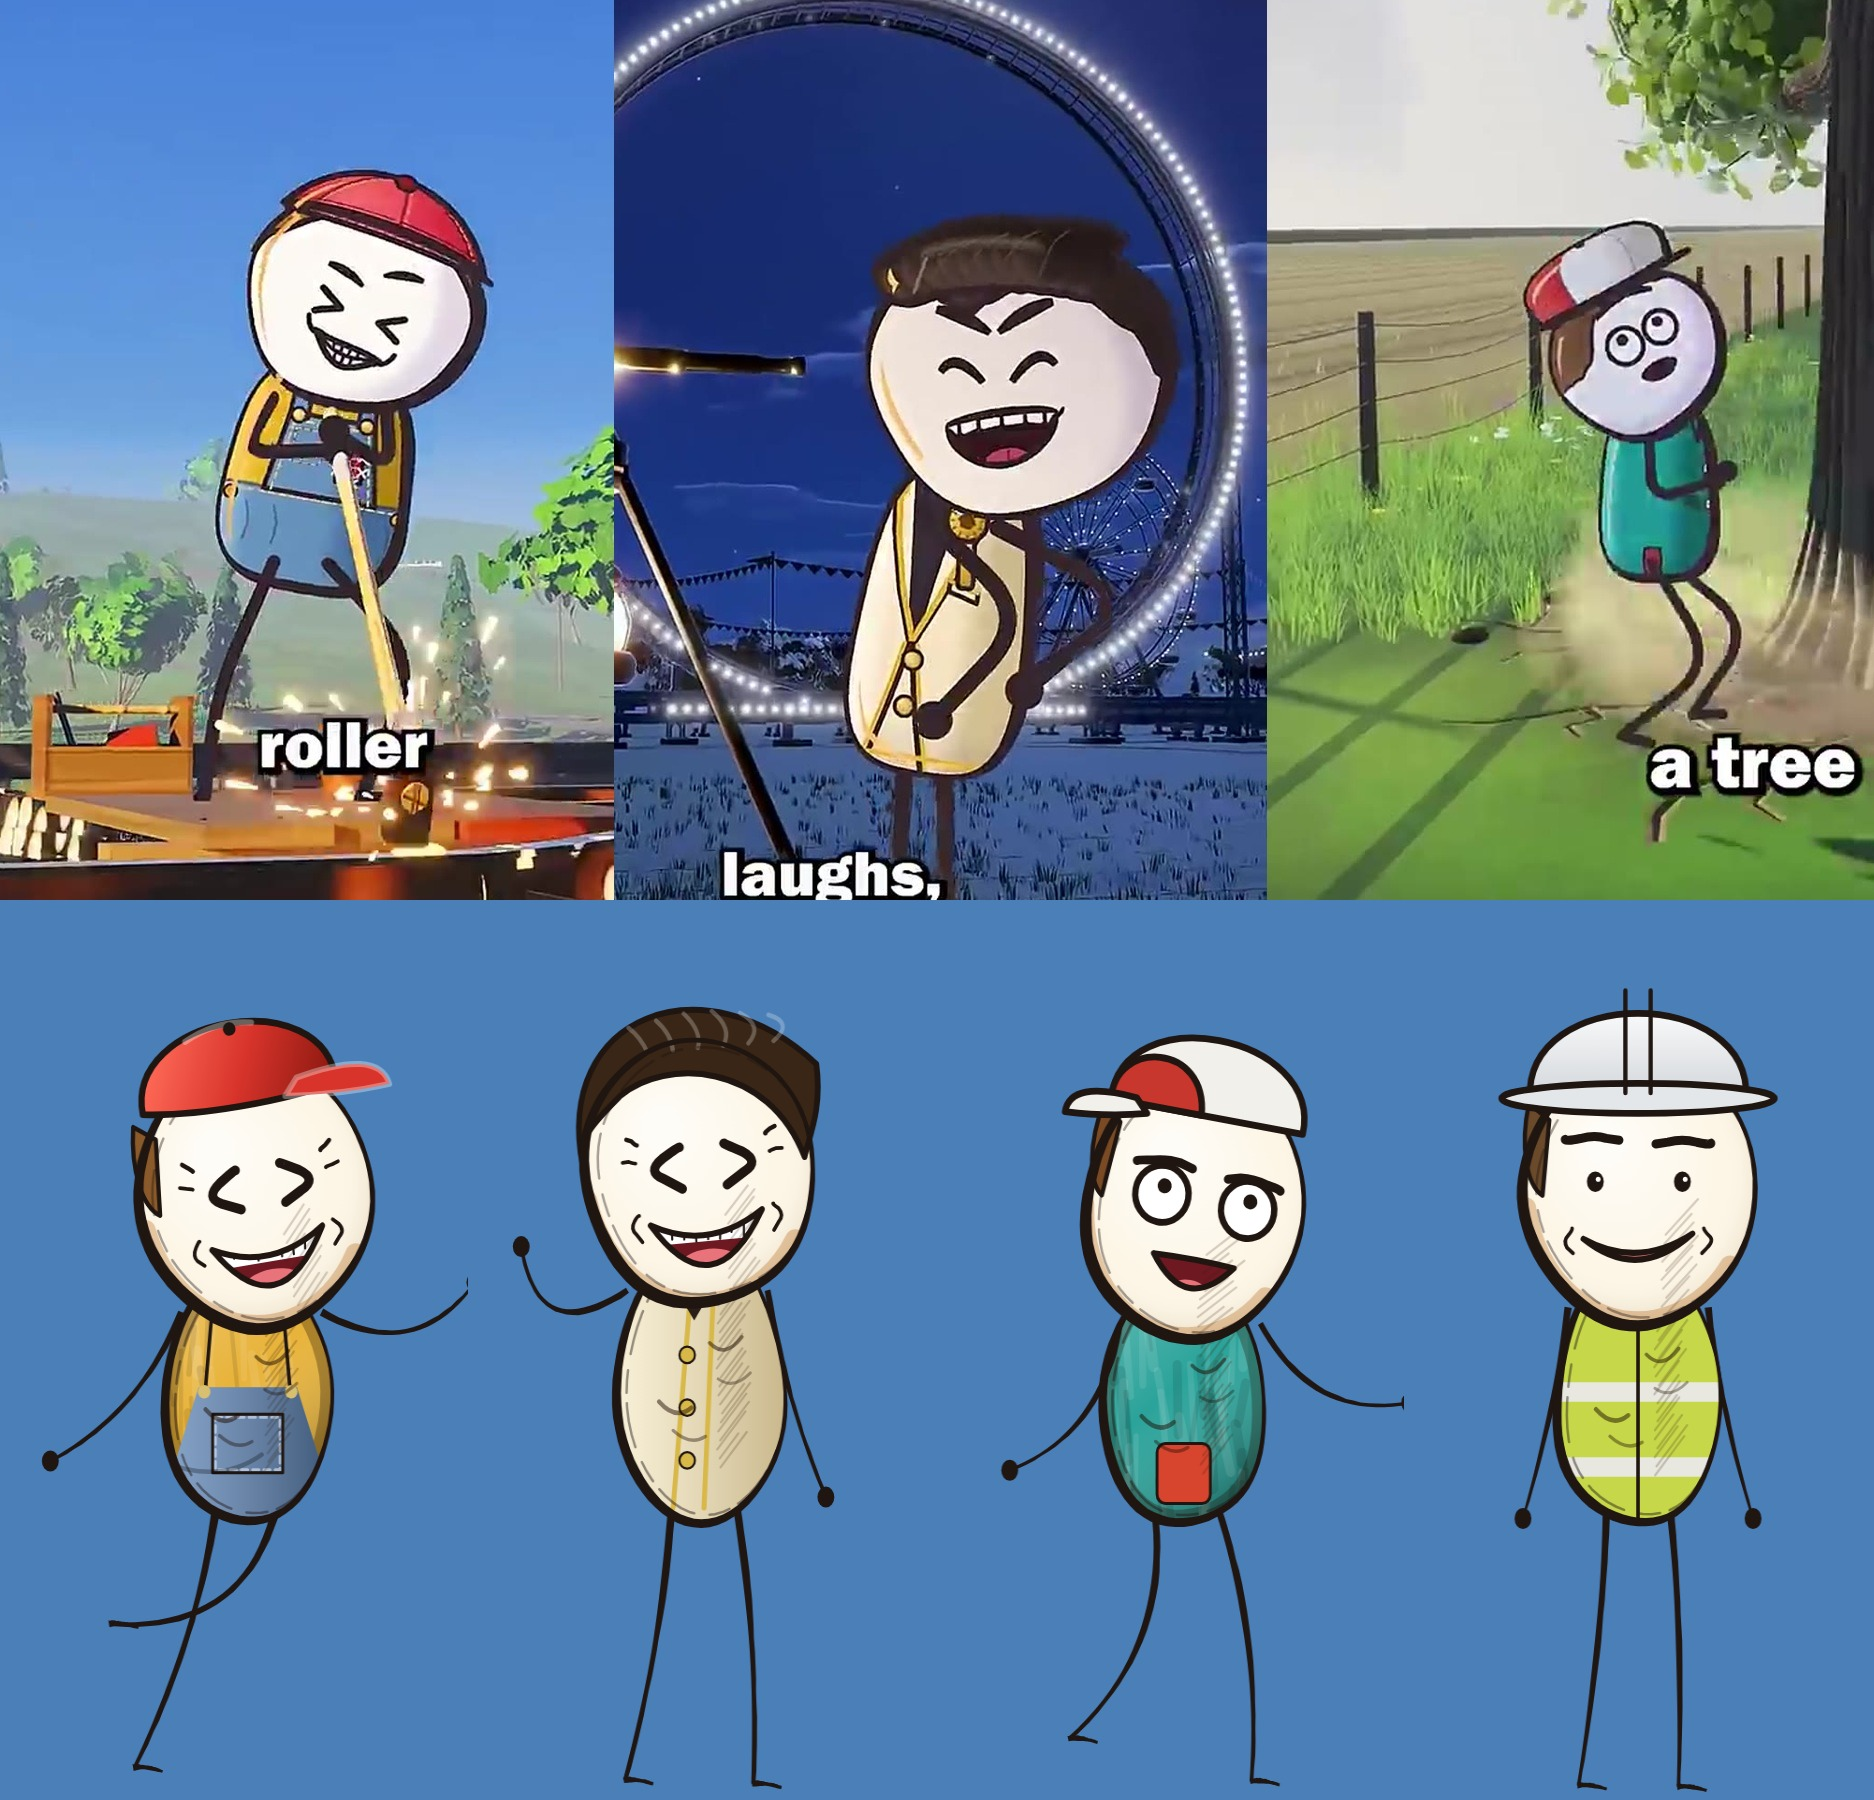
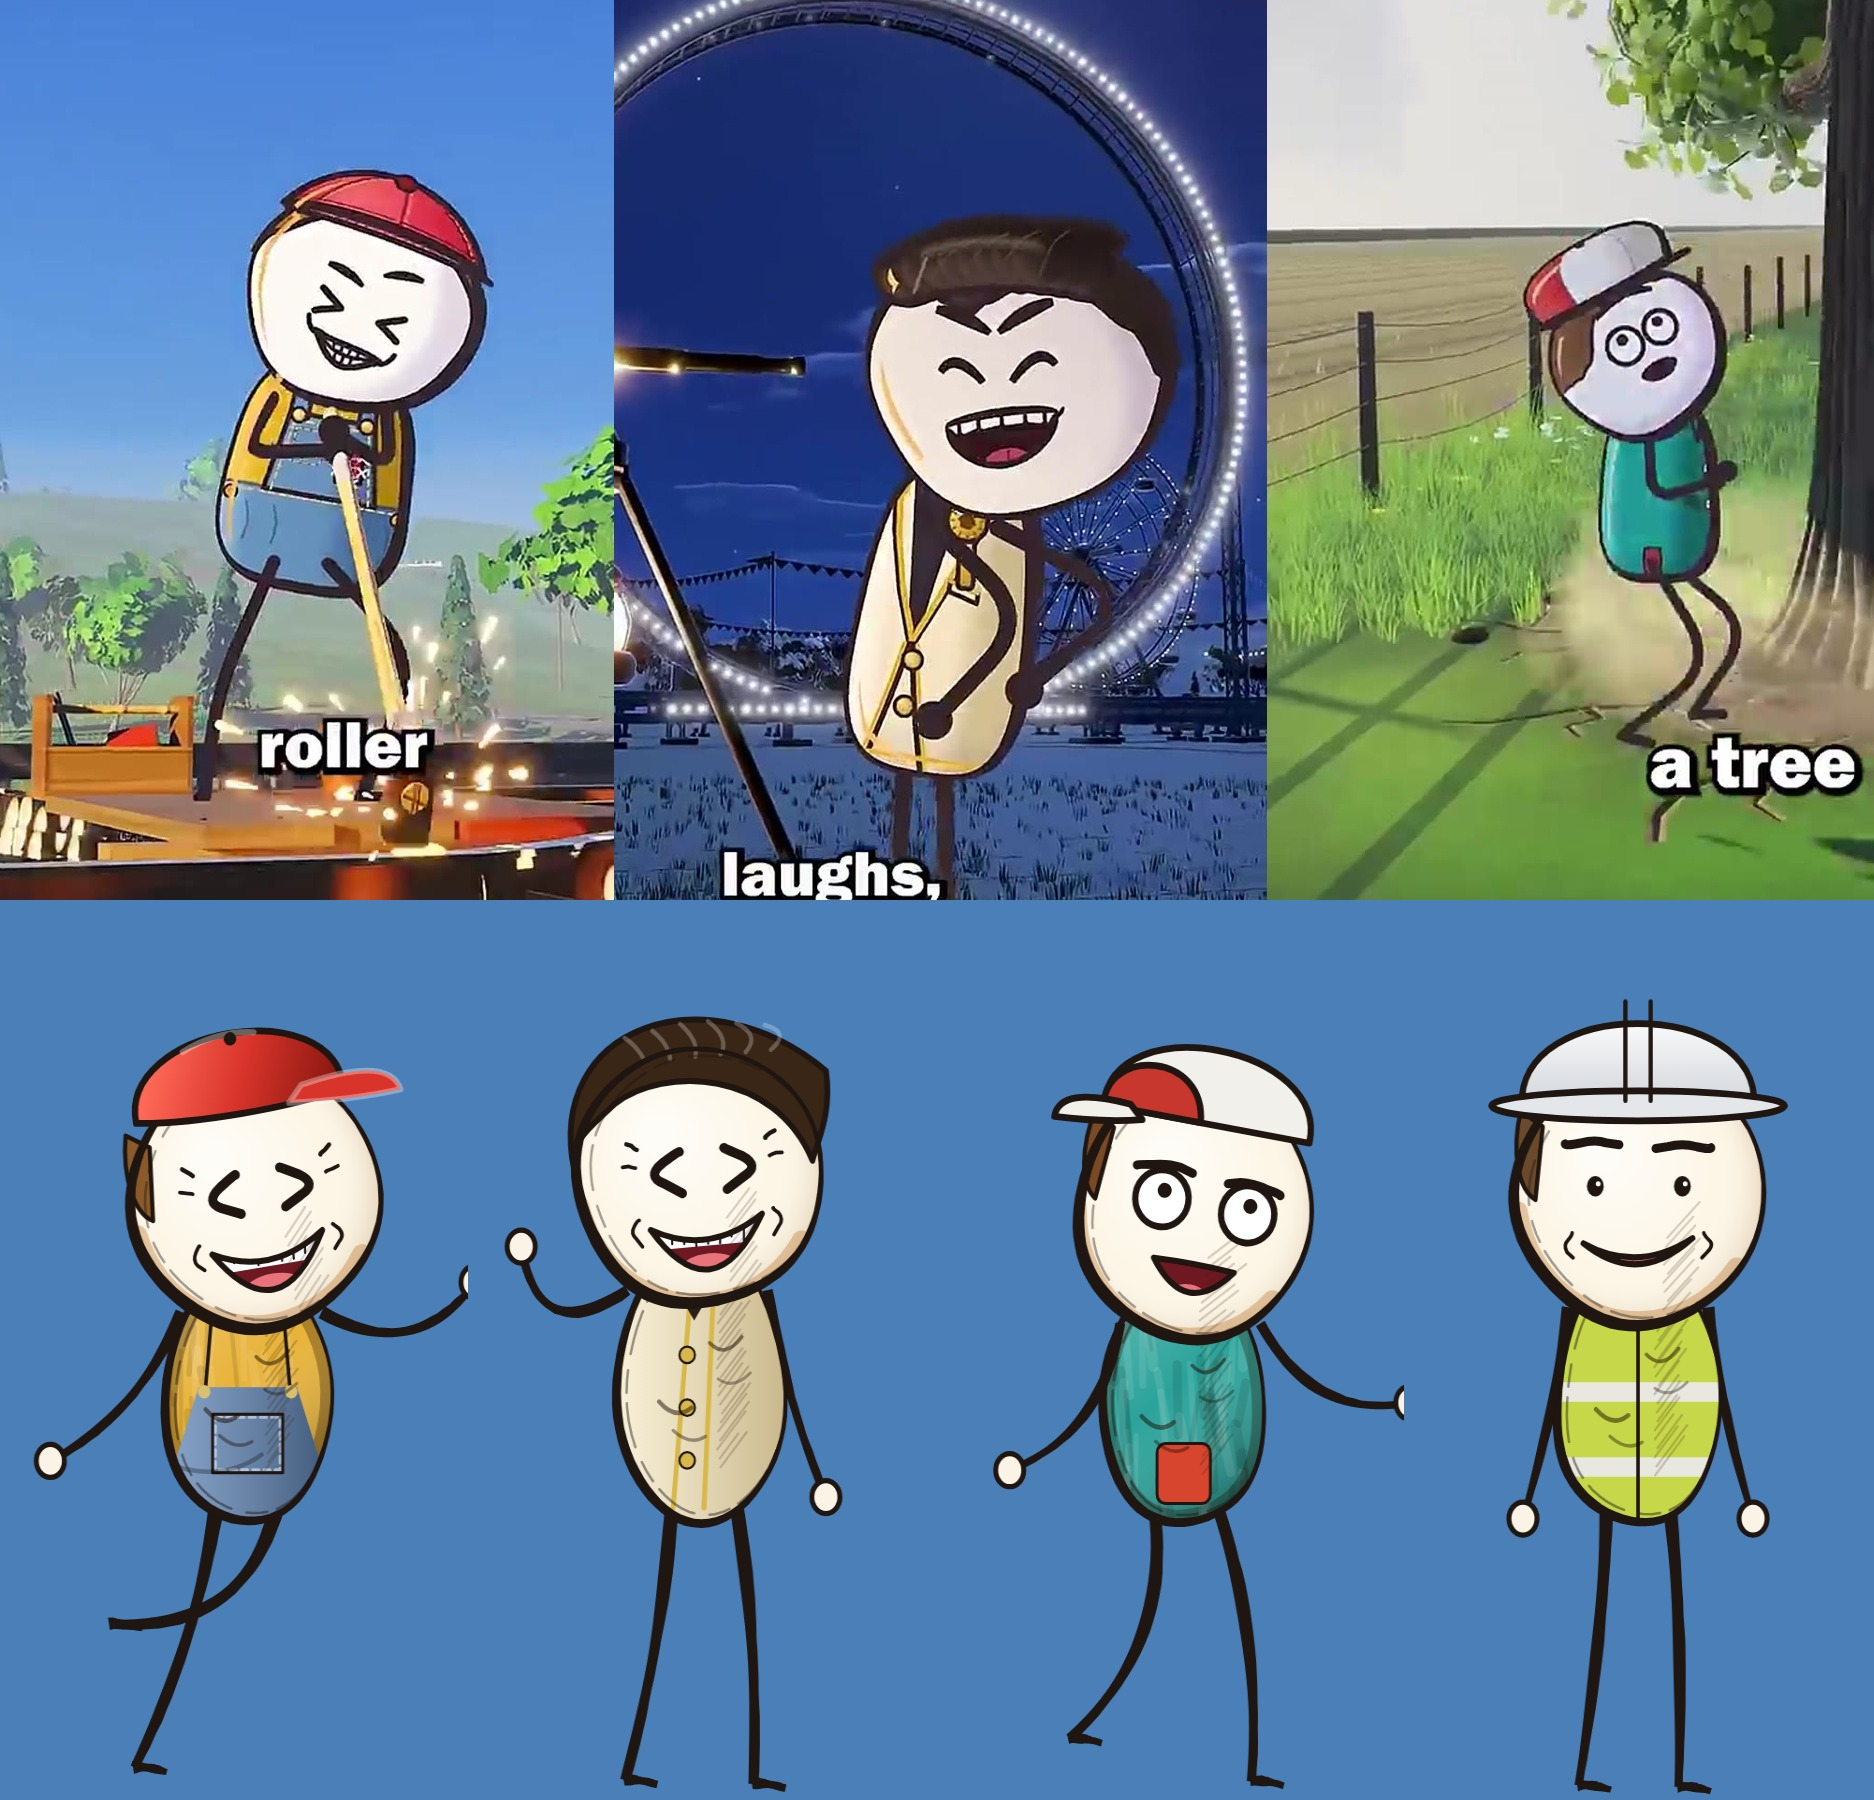
Style 2 characters: rounder head, thicker arms and legs, outlined hands

diff --git a/reel-studio/remotion-template/src/three/stickdraw.js b/reel-studio/remotion-template/src/three/stickdraw.js
@@ -35,7 +35,7 @@ export function drawStick(ctx, W, H, s) {
   ctx.clearRect(0, 0, W, H); ctx.save(); ctx.translate(W / 2, H * 0.985); ctx.scale(u, u); ctx.lineCap = 'round'; ctx.lineJoin = 'round';
   const rn = (i) => { const x = Math.sin((i + S0) * 127.1 + 311.7) * 43758.5453; return x - Math.floor(x); }, wb = (i, a = 1.6) => (rn(i * 7.3 + fr * 0.37) - 0.5) * 2 * a;
   const bob = Math.sin(t * 2.2 + seed) * 3 + Math.abs(Math.sin(walk * Math.PI)) * -12 * (walk ? 1 : 0), lean = pose.lean * R + walk * 0.05, hp = pose.hip || 0;
-  const HEADRX = 162 * (look.headW ?? 1), HEADRY = 180 * (look.headH ?? 1), TH = look.torsoH ?? 285, LEG = look.legL ?? 390, TWs = look.torsoW ?? 1.5;
+  const HEADRX = 174 * (look.headW ?? 1), HEADRY = 174 * (look.headH ?? 1), TH = look.torsoH ?? 285, LEG = look.legL ?? 390, TWs = look.torsoW ?? 1.5;
   const hipY = -LEG + bob, shY = hipY - TH, shX = Math.sin(lean) * 120, hdY = shY - HEADRY + 70 + bob * 0.3;
   // ---- ink loop: a closed shape outlined by a pen whose weight swells and thins around it (heavy on the shadow side, light on the lit side)
   const loop = (fn, n, base, lightAng = -0.9) => { const out = [], inn = []; for (let i = 0; i < n; i++) { const a = (i / n) * Math.PI * 2, p = fn(a), q = fn(a + 0.01), tx = q[0] - p[0], ty = q[1] - p[1], l = Math.hypot(tx, ty) || 1, nx = ty / l, ny = -tx / l, th = base * (0.5 + 0.95 * Math.pow(0.5 + 0.5 * Math.cos(a - lightAng - Math.PI), 1.4)) + wb(i * 3, 0.5); out.push([p[0] + nx * th * 0.5, p[1] + ny * th * 0.5]); inn.push([p[0] - nx * th * 0.5, p[1] - ny * th * 0.5]); }
@@ -54,10 +54,10 @@ export function drawStick(ctx, W, H, s) {
   // ---- legs: thin long lines with a clear knee, tiny shoe strokes
   const dirx = turn >= 0 ? 1 : -1, sw = walk ? Math.sin(walk * Math.PI * 2) : 0, sp = Math.abs(turn) > 0.5 ? 0.5 : 0.12;
   const thL = -pose.hL[0] * R - sw * sp * dirx, thR = pose.hR[0] * R + sw * sp * dirx, kL = (pose.hL[1] + Math.max(0, sw) * 40) * R, kR = (pose.hR[1] + Math.max(0, -sw) * 40) * R;
-  const lg = (hx, th, kb) => { const l1 = LEG * 0.5, l2 = LEG * 0.5, e = [hx + Math.sin(th) * l1, hipY + Math.cos(th) * l1], h = [e[0] + Math.sin(th - kb * dirx) * l2, e[1] + Math.cos(th - kb * dirx) * l2]; taper([hx, hipY], [e[0] + 8 * dirx, e[1]], h, 11, 5.5); taper([h[0] - 2, h[1]], [h[0] + 14 * dirx, h[1] - 3], [h[0] + 40 * dirx, h[1] + 5], 8, 4); return h; };
+  const lg = (hx, th, kb) => { const l1 = LEG * 0.5, l2 = LEG * 0.5, e = [hx + Math.sin(th) * l1, hipY + Math.cos(th) * l1], h = [e[0] + Math.sin(th - kb * dirx) * l2, e[1] + Math.cos(th - kb * dirx) * l2]; taper([hx, hipY], [e[0] + 8 * dirx, e[1]], h, 20, 13); taper([h[0] - 2, h[1]], [h[0] + 16 * dirx, h[1] - 3], [h[0] + 46 * dirx, h[1] + 6], 15, 9); return h; };
   lg(-44 + shX * 0.3 + hp, thL, kL); lg(44 + shX * 0.3 + hp, thR, kR);
   // ---- arms: thin ink lines, tiny closed fist
-  const armOf = (side, a) => { const L1 = 150 * (look.armL ?? 1), L2 = 140 * (look.armL ?? 1), ox = shX + side * 70 * TWs * 0.95, oy = shY + 50, e = [ox + side * Math.sin(a[0] * R) * L1, oy + Math.cos(a[0] * R) * L1], h = [e[0] + side * Math.sin((a[0] + a[1]) * R) * L2, e[1] + Math.cos((a[0] + a[1]) * R) * L2]; taper([ox, oy], [e[0], e[1]], h, 9, 4.2); ctx.fillStyle = look.glove || ink; ctx.beginPath(); ctx.ellipse(h[0], h[1], 12, 14, 0, 0, 7); ctx.fill(); return h; };
+  const armOf = (side, a) => { const L1 = 150 * (look.armL ?? 1), L2 = 140 * (look.armL ?? 1), ox = shX + side * 70 * TWs * 0.95, oy = shY + 50, e = [ox + side * Math.sin(a[0] * R) * L1, oy + Math.cos(a[0] * R) * L1], h = [e[0] + side * Math.sin((a[0] + a[1]) * R) * L2, e[1] + Math.cos((a[0] + a[1]) * R) * L2]; taper([ox, oy], [e[0], e[1]], h, 16, 10); ctx.fillStyle = look.glove || '#fbf4e6'; ctx.beginPath(); ctx.ellipse(h[0], h[1], 20, 22, 0, 0, 7); ctx.fill(); ctx.strokeStyle = ink; ctx.lineWidth = 7; ctx.stroke(); return h; };
   const backArm = pose.sR; armOf(1, backArm);
   // ---- torso: a bean (no neck; the head sits on it), painted clothes on top
   const bean = (a) => { const c = Math.cos(a), sn = Math.sin(a), cx = shX * 0.5 + hp * 0.5, cy = (shY + hipY) / 2 + 10, rx = 78 * TWs * (1 + 0.1 * sn + 0.05 * sm1(a + 0.7)), ry = (TH / 2 + 28) * (1 + 0.03 * sm1(a + 2.1)); return [cx + c * rx, cy + sn * ry]; };
